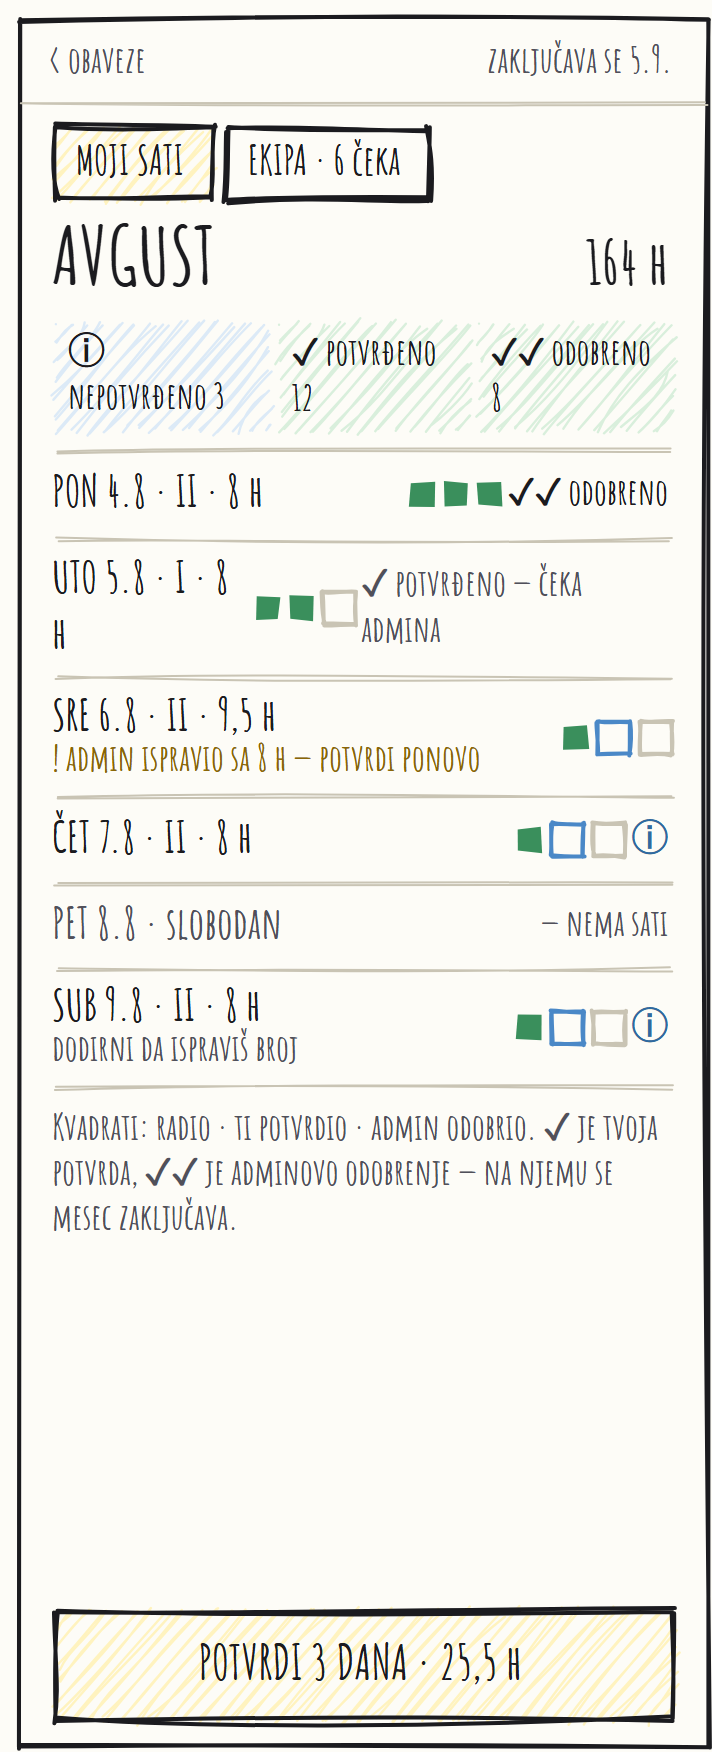
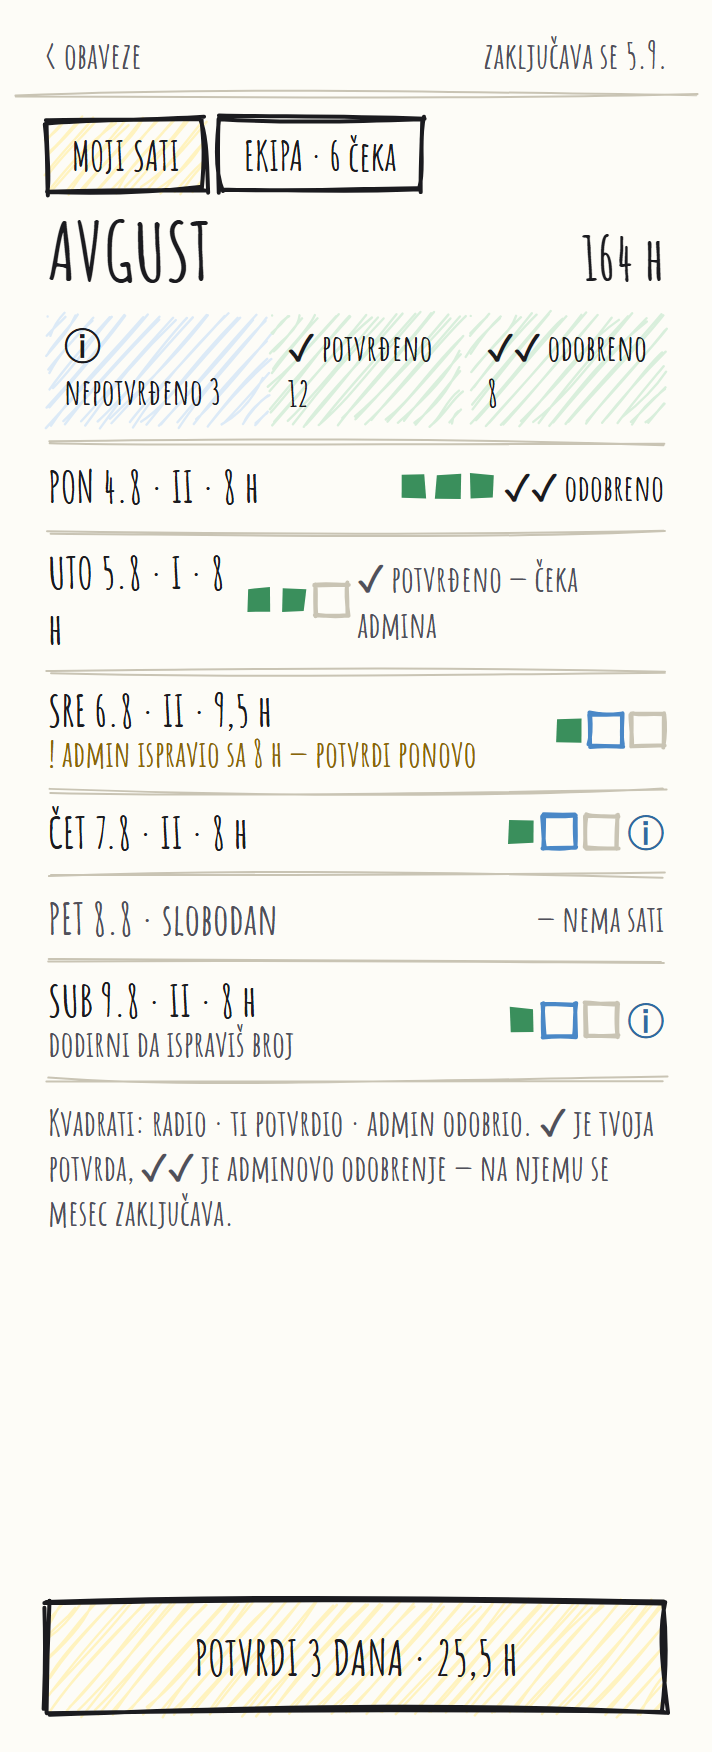
Drop the phone frame, keep sticky notes flat
The artboard's own 2px border is stripped in the renderer, so nothing draws
a box around the whole screen. Its style values repeat throughout the markup,
so the rewrite touches the opening tag alone.

Sticky notes now sit out of the Rough.js pass. board-tab.tsx draws them as
plain rectangles with a solid head strip and a small skew, never through
RoughBox, so a wobbly outline and a hachure fill were both wrong. A note is
recognised by its thick top border, the glued flap, which is also what
separates it from a button.

Also dropped the reviewer bullet that called the screens proposals.

Changed region(s): [[0.0, 0.0, 1.0, 1.0]]

diff --git a/tools/sketch-pass.js b/tools/sketch-pass.js
@@ -24,6 +24,15 @@ function easeRough(minDim) {
   return { roughness: ROUGHNESS * t, bowing: BOWING * t };
 }
 
+// Sticky notes stay flat. board-tab.tsx draws them as plain rectangles with a
+// solid head strip and a small skew, never through RoughBox, so a wobbly
+// outline and a hachure fill would both be wrong. The thick top border is the
+// glued flap, and it is what tells a note apart from a button.
+function isStickyNote(sides) {
+  const [top, right, bottom, left] = sides;
+  return top.width >= 6 && [right, bottom, left].every((s) => s.width < top.width);
+}
+
 function sketch(seed) {
   const gen = rough.generator();
   const root = document.querySelector('.artboard');
@@ -99,6 +108,14 @@ function sketch(seed) {
     const x = r.left - rootBox.left;
     const y = r.top - rootBox.top;
 
+    const sides = ['Top', 'Right', 'Bottom', 'Left'].map((s) => ({
+      width: parseFloat(cs[`border${s}Width`]) || 0,
+      color: cs[`border${s}Color`],
+    }));
+
+    // Leave the note exactly as the CSS drew it, fill and flap included.
+    if (isStickyNote(sides)) continue;
+
     const bg = cs.backgroundColor;
     if (bg && bg !== TRANSPARENT && bg !== PAPER) {
       const hachure = Math.min(w, h) >= HACHURE_MIN;
@@ -115,10 +132,6 @@ function sketch(seed) {
       el.style.backgroundColor = 'transparent';
     }
 
-    const sides = ['Top', 'Right', 'Bottom', 'Left'].map((s) => ({
-      width: parseFloat(cs[`border${s}Width`]) || 0,
-      color: cs[`border${s}Color`],
-    }));
     const visible = sides.filter((s) => s.width > 0 && s.color !== TRANSPARENT);
     if (!visible.length) continue;
 

diff --git a/index.html b/index.html
@@ -123,11 +123,6 @@
       <h4>Parts I would show a reviewer</h4>
       <ul class="bullets">
         <li>
-          <strong>Structure gets drawn before it gets built.</strong> Those three screens are
-          proposals, not shipped work. One flow, three moments, so the argument about where a
-          worker's obligations live happens on paper instead of costing a cycle.
-        </li>
-        <li>
           <strong>A deterministic auto-draft planner.</strong> Fill an empty week in one tap.
           It works down a strict priority hierarchy and then runs exact repair sweeps, so the
           same input always produces the same rota and an admin can argue with the result

diff --git a/README.md b/README.md
@@ -31,6 +31,12 @@ alone: the app wobbles the chrome, not the lettering. Roughness eases off on sma
 elements, because Rough.js displaces by absolute pixels and full roughness turns a
 12px status square into a wedge.
 
+Two things stay out of the Rough.js pass. The artboard's own frame is stripped, so
+there is no border around the whole phone. And sticky notes keep flat edges and a
+solid fill: `board-tab.tsx` draws them as plain rectangles with a head strip and a
+small skew, never through `RoughBox`. A note is recognised by its thick top border,
+the glued flap, which is also what separates it from a button.
+
 ```bash
 node tools/render-screens.mjs /tmp/screens
 ```
